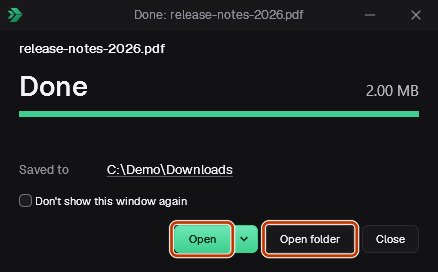
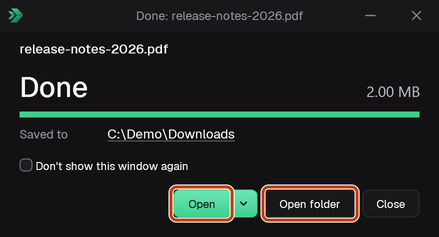
Plan 13 audit: help pictures of the changed windows; the plan records the audit
- first/catch-complete and first/catch-progress retaken (make.py --scale 2, C:\Demo); the torrent's progress pictures retaken with progress-shots.ps1 (C:\Demo), scaled to 1x; torrent-files and torrent-pieces built from them. make.py check: 63 shots, 0 problems.
- Plan 13's Definition of done gains the post-merge audit.

diff --git a/design/graphite/plans/13-download-window.md b/design/graphite/plans/13-download-window.md
@@ -265,3 +265,7 @@ retakes the pictures they name):
   the known differences are in each part's PR: "1 hour(s) 12 min" in the app's own time format,
   Segoe UI Regular for the reading, Details 20 points taller to keep one height in every state)
 - [x] ROADMAP and CHANGELOG lines per part; docs and help pictures updated for the changed names
+- [x] Post-merge audit (2026-11-22): four fresh auditors, one per part, on `dev` e8b6ec46; every
+  finding (8 should-fix, about 20 nits) fixed in one PR, audited until APPROVED (the progress
+  window's fixes in 2 rounds, the Done window's in 4), built and tested together; the "As built"
+  notes above record what was kept on purpose
